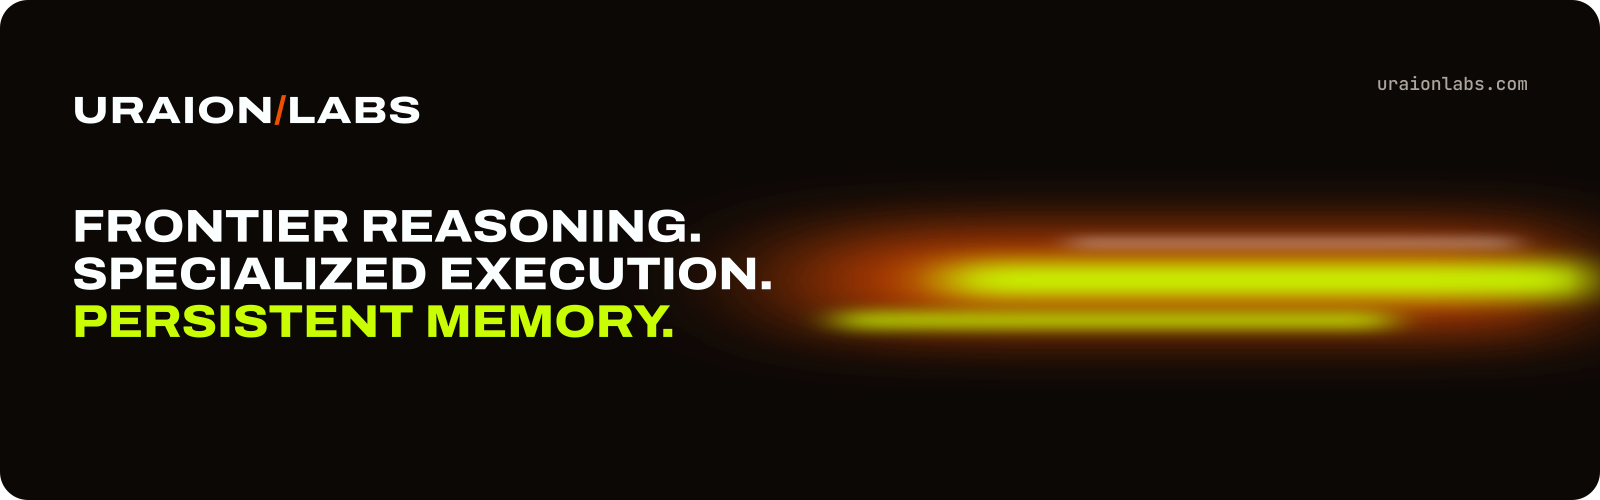
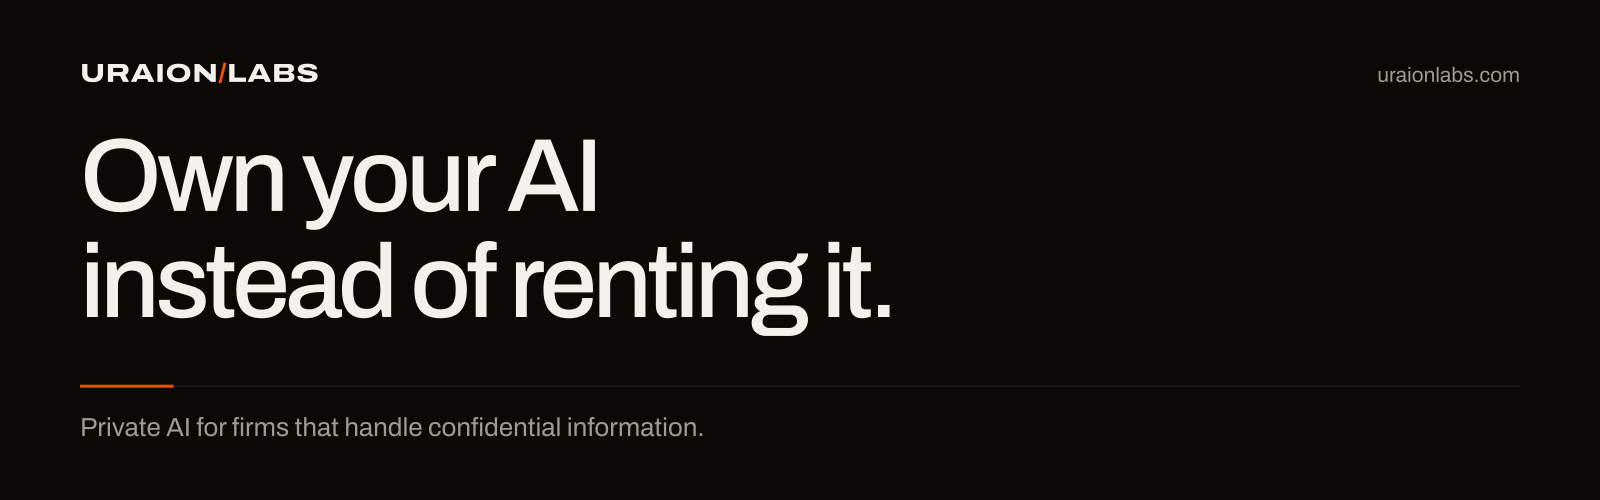
Match the new site: own your AI, private AI for firms, and the quiet paper-and-ink design

diff --git a/profile/README.md b/profile/README.md
@@ -1,55 +1,41 @@
 <picture>
   <source media="(prefers-color-scheme: dark)" srcset="https://raw.githubusercontent.com/UraionLabs/.github/main/profile/assets/profile-banner-dark.png">
   <source media="(prefers-color-scheme: light)" srcset="https://raw.githubusercontent.com/UraionLabs/.github/main/profile/assets/profile-banner-light.png">
-  <img alt="Uraion Labs. Frontier reasoning. Specialized execution. Persistent memory." src="https://raw.githubusercontent.com/UraionLabs/.github/main/profile/assets/profile-banner-dark.png" width="100%">
+  <img alt="Uraion Labs. Own your AI instead of renting it." src="https://raw.githubusercontent.com/UraionLabs/.github/main/profile/assets/profile-banner-light.png" width="100%">
 </picture>
 
-Uraion Labs researches and builds adaptive AI systems. We work on agent runtimes, orchestration, persistent memory, and reliable execution — including local and private deployments.
+Uraion Labs is an AI company in Dallas, Texas. We set up private AI for firms that handle confidential information. The AI runs on a computer the firm owns. It is tested on the firm's real work and gets better every month from the team's corrections.
 
-[Website](https://uraionlabs.com) · [Research](https://uraionlabs.com/#research) · [Hugging Face](https://huggingface.co/UraionLabs) · [Contact](https://uraionlabs.com/#contact)
+[Website](https://www.uraionlabs.com) · [How it works](https://www.uraionlabs.com/how-it-works) · [Results](https://www.uraionlabs.com/research) · [Hugging Face](https://huggingface.co/UraionLabs) · [Contact](https://www.uraionlabs.com/contact)
 
-## What we are building
+## How it works
 
-Research produces methods. We turn those methods into systems, put the systems into products, and learn from how the products run.
+1. **We test AI models on your work.** Your team gives us 50 to 100 real tasks with the right answers. You see how several models score before you buy anything.
+2. **We install the best one in your office.** It runs on a computer you own and connects to your files. This takes about 30 days.
+3. **Your team uses it and corrects it.** Each approval and fix is saved on your computer.
+4. **We make it better every month.** We use those corrections to fix the most common mistakes. Each month you get a report on how it scores.
+5. **We switch to a newer model only if it's better.** It has to score higher on your tasks, and you decide.
 
-## Focus
+## What you own
 
-- **Agents and orchestration** — planning, splitting work, running tasks in parallel, recovering from failure, and escalating when needed
-- **Agent runtimes** — processes that own execution, tool use, and the boundary between a model and a machine
-- **Memory** — storing and retrieving procedures, context, and failures across runs
-- **Local and private AI** — running sensitive work and smaller models on infrastructure you control
-- **Open models and research** — using open models, local deployment, and alternative architectures when they are the better engineering choice
-- **Evaluation** — testing real workflows rather than isolated prompts
+The computer, the AI model, its test tasks, your team's corrections and every improvement. If you stop working with us, you keep all of it.
 
-We prefer the smallest capable model for a task and escalate only when necessary.
+## Results
 
-## Projects and research
+We train free AI models for one job and test them in public.
 
-This GitHub organization is new. Public repositories will appear here as we release systems, libraries, and research artifacts.
-
-### Research
-
-We study how agents plan, delegate, remember, and check their work, and how to run that stack efficiently. Current tracks:
-
-| Track | Question |
+| Model | Result |
 | --- | --- |
-| Agent orchestration | How agents plan, split work, run in parallel, recover, and escalate |
-| Memory systems | How systems store and retrieve procedures, context, and past failures |
-| Model specialization | How smaller models handle focused tasks within clear limits |
-| Efficient and local inference | How to use the smallest capable model, including on private infrastructure |
-| Evaluation and verification | How to test real workflows with tools, structured checks, and review |
-| Adaptive systems | How systems learn from validated experience without retraining for every lesson |
+| [Uraion Cyber 1.0](https://huggingface.co/UraionLabs/Uraion-Cyber-V1.0) | Finds security problems in code. It got 90.2% of 1,145 unseen tasks right, against 79.7% for the free model it started from. |
+| [Nemotron 3.5 Bolt, our version](https://huggingface.co/UraionLabs/Nemotron-3.5-Bolt-74B-A9B-24GB-Metal-GGUF) | Reads prompts 3.7 times faster than NVIDIA's original on a Mac with an M5 Pro chip. |
 
-## Contributing
+The full numbers, including what didn't improve, are on our [results page](https://www.uraionlabs.com/research). All of our free models are on [Hugging Face](https://huggingface.co/UraionLabs).
 
-We welcome issues and pull requests on public repositories. Some work is still private or unreleased; if a repository is not open, the website is the public source of information.
+## Code
 
-1. Read the repository README and any repo-specific contributing guide.
-2. Search existing issues before opening a new one.
-3. Use the issue templates for bugs and feature requests.
-4. Open a focused pull request that states what changed, why, and how it was tested.
+Most of our work runs on our clients' own computers, so most of it is private. Public tools and research code will appear here when we release them.
 
-Organization defaults (a repository may override these):
+Issues and pull requests are welcome on public repositories. These organization defaults apply unless a repository has its own:
 
 - [Contributing](https://github.com/UraionLabs/.github/blob/main/CONTRIBUTING.md)
 - [Code of conduct](https://github.com/UraionLabs/.github/blob/main/CODE_OF_CONDUCT.md)
@@ -58,4 +44,4 @@ Organization defaults (a repository may override these):
 
 ## Contact
 
-Use the [contact form](https://uraionlabs.com/#contact) for product, research, infrastructure, partnership, and career inquiries.
+To talk about AI for your firm, [request a consultation](https://www.uraionlabs.com/contact). We work with firms across the US, and on site in Dallas-Fort Worth.

diff --git a/CONTRIBUTING.md b/CONTRIBUTING.md
@@ -9,14 +9,14 @@ These are organization-wide defaults for repositories under [Uraion Labs](https:
 - Do not file a public issue for a security vulnerability. See [SECURITY.md](SECURITY.md).
 - By participating, you agree to the [Code of Conduct](CODE_OF_CONDUCT.md).
 
-Some repositories are private or not yet open for external contribution. If you cannot access a project, use the [website contact form](https://uraionlabs.com/#contact).
+Some repositories are private or not yet open for external contribution. If you cannot access a project, use the [website contact form](https://www.uraionlabs.com/contact).
 
 ## Issues
 
 Use the repository’s issue templates when they are available:
 
-- **Bug report** — unexpected behavior, with steps to reproduce
-- **Feature request** — a concrete problem and a proposed change
+- **Bug report:** unexpected behavior, with steps to reproduce
+- **Feature request:** a concrete problem and a proposed change
 
 Include the repository, version or commit, environment, and enough detail for someone else to act on the report. Feature requests should explain the problem, not only the desired API.
 
@@ -52,4 +52,4 @@ If this organization-wide guide and a repository guide disagree, the repository 
 ## Questions
 
 - Project usage and defects: GitHub issues on the relevant repository. See [SUPPORT.md](SUPPORT.md).
-- Product, research, or partnership inquiries: [uraionlabs.com/#contact](https://uraionlabs.com/#contact).
+- AI for your firm, research or partnership inquiries: [uraionlabs.com/contact](https://www.uraionlabs.com/contact).

diff --git a/SUPPORT.md b/SUPPORT.md
@@ -16,16 +16,17 @@ Do not use public issues for security reports. See [SECURITY.md](SECURITY.md).
 
 ## What GitHub issues are not for
 
-- Product or partnership discussions
+- Talking about AI for your firm, or partnerships
 - Career inquiries
 - General questions about Uraion Labs that are not tied to a public repository
 
-For those, use the [contact form](https://uraionlabs.com/#contact).
+For those, use the [contact form](https://www.uraionlabs.com/contact).
 
 ## Public information
 
-- Website: [uraionlabs.com](https://uraionlabs.com)
-- Research: [uraionlabs.com/#research](https://uraionlabs.com/#research)
+- Website: [uraionlabs.com](https://www.uraionlabs.com)
+- Results: [uraionlabs.com/research](https://www.uraionlabs.com/research)
+- Free models: [huggingface.co/UraionLabs](https://huggingface.co/UraionLabs)
 - Organization: [github.com/UraionLabs](https://github.com/UraionLabs)
 
 Some projects are unreleased. If there is no public repository yet, the website is the source of public information.

diff --git a/brand/README.md b/brand/README.md
@@ -15,15 +15,19 @@ The logo is the **URAION/LABS** wordmark with a Tangerine slash. Square spaces
 
 ## Colour
 
-| Name | Hex |
-| --- | --- |
-| Tangerine | `#EE5001` |
-| Acid Lime | `#C8FD03` |
-| White | `#FCFFFF` |
-| Ink | `#0B0806` |
+Paper and ink, with one accent.
 
-Type: Archivo (wide, heavy, uppercase) for display. JetBrains Mono for labels.
+| Name | Hex | Use |
+| --- | --- | --- |
+| Paper | `#FAF9F6` | Light backgrounds |
+| Ink | `#0B0806` | Text, dark backgrounds |
+| Tangerine | `#EE5001` | The slash, underlines and small marks. Never a fill behind text |
+
+## Type
+
+Archivo. Headings use weight 500 with tight letter spacing, in sentence case. Only
+the wordmark is wide, heavy and uppercase.
 
 Please don't recolour the slash, change the letter spacing, set the wordmark in
 another typeface or add effects. If you need a format that isn't here, use the
-[contact form](https://uraionlabs.com/#contact).
+[contact form](https://www.uraionlabs.com/contact).

diff --git a/SECURITY.md b/SECURITY.md
@@ -5,7 +5,7 @@ If you believe you have found a security vulnerability in a Uraion Labs project,
 ## How to report
 
 1. Use **GitHub Private Vulnerability Reporting** on the affected repository, if it is enabled: **Security → Report a vulnerability**.
-2. If that option is not available, use the [Uraion Labs contact form](https://uraionlabs.com/#contact). Start the message with “Security” and include the repository name.
+2. If that option is not available, use the [Uraion Labs contact form](https://www.uraionlabs.com/contact). Start the message with “Security” and include the repository name.
 
 Include:
 

diff --git a/CODE_OF_CONDUCT.md b/CODE_OF_CONDUCT.md
@@ -60,7 +60,7 @@ representative at an online or offline event.
 
 Instances of abusive, harassing, or otherwise unacceptable behavior may be
 reported to the community leaders responsible for enforcement through the
-[Uraion Labs contact form](https://uraionlabs.com/#contact). Include
+[Uraion Labs contact form](https://www.uraionlabs.com/contact). Include
 “Code of Conduct” in the message so the report can be routed.
 
 All complaints will be reviewed and investigated promptly and fairly.
